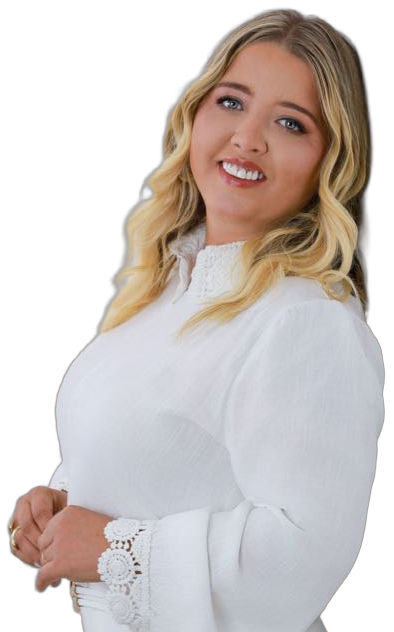
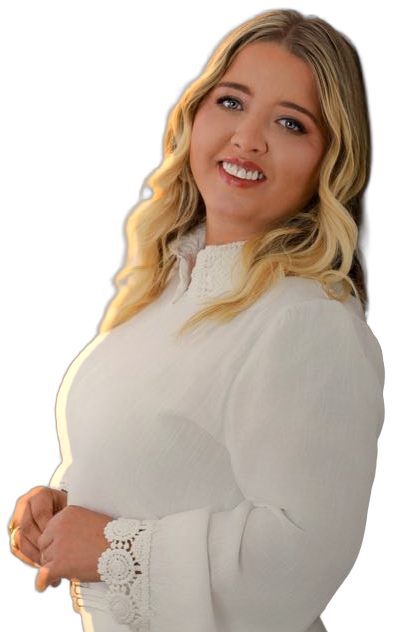
Hero com fotografia cinematográfica (litoral ao pôr do sol e mansão) e foto da Camila com luz ajustada ao cenário
Claude-Session: https://claude.ai/code/session_01Eh7DeqgN8TMefWouBWsUd1

diff --git a/camila-severiano-imoveis/assets/css/site.css b/camila-severiano-imoveis/assets/css/site.css
@@ -398,7 +398,7 @@ h1 em, h2 em, h3 em { font-style: italic; color: var(--gold); font-weight: 400; 
   .hero__side { min-height: 0; }
   .hero__camila { position: relative; bottom: auto; right: auto; height: 420px; margin: 0 auto -50px; }
   .hero__side::before { right: 50%; transform: translateX(50%); width: 340px; height: 340px; }
-  .hero__shade { background: linear-gradient(180deg, rgba(7, 14, 30, .72) 0%, rgba(7, 14, 30, .5) 40%, rgba(7, 14, 30, .35) 70%, rgba(7, 14, 30, .95) 100%); }
+  .hero__shade { background: linear-gradient(180deg, rgba(7, 14, 30, .72) 0%, rgba(7, 14, 30, .55) 40%, rgba(7, 14, 30, .6) 70%, rgba(7, 14, 30, .96) 100%); }
   .hero__photo { object-position: 72% 50%; }
   .brand__logo { height: 48px; }
 }

diff --git a/camila-severiano-imoveis/README.md b/camila-severiano-imoveis/README.md
@@ -18,7 +18,7 @@ Site da corretora **Camila Severiano** (@camilaseveriano_imoveis), especialista 
 2. Fotos da Camila:
    - `assets/img/camila-hero.png`: **recortada, com fundo transparente**, da cintura ou do peito para cima. Aparece em destaque no hero, à direita. Sem ela, aparece o cartão dourado da marca.
    - `assets/img/camila.jpg`: retrato vertical para a seção "Sobre mim".
-   - (Opcional) `assets/img/hero.jpg`: foto de fundo do hero (pôr do sol, praia ou casa). Substitui o cenário desenhado.
+   - `assets/img/hero-bg.jpg` e `hero-bg-mobile.jpg`: fotografia de fundo do hero (litoral ao pôr do sol e mansão com piscina). Troque por fotos próprias quando quiser.
 3. Os 8 imóveis que vêm no site são **exemplos**. Exclua e cadastre os reais pelo painel.
 
 ## Modo local x nuvem (importante)
